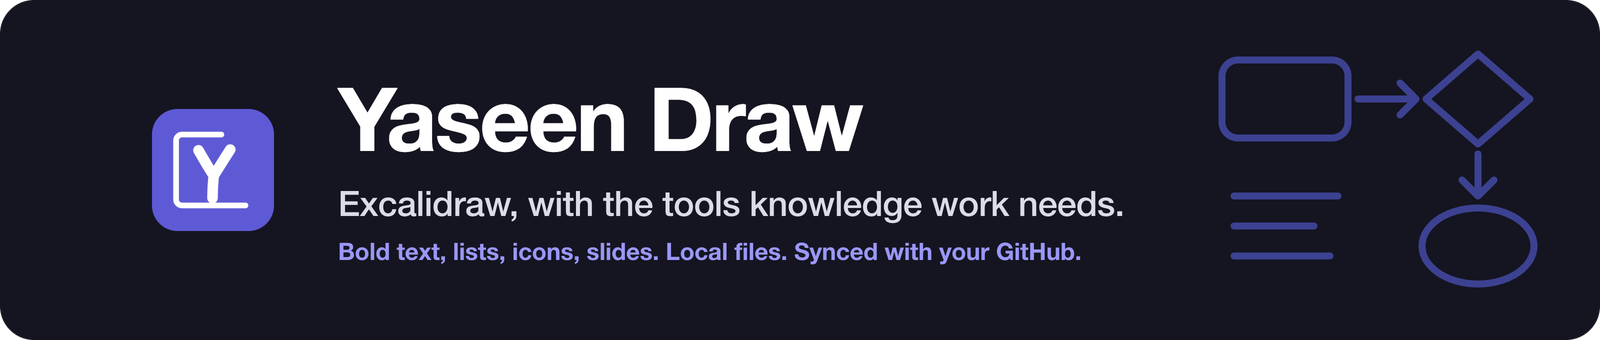
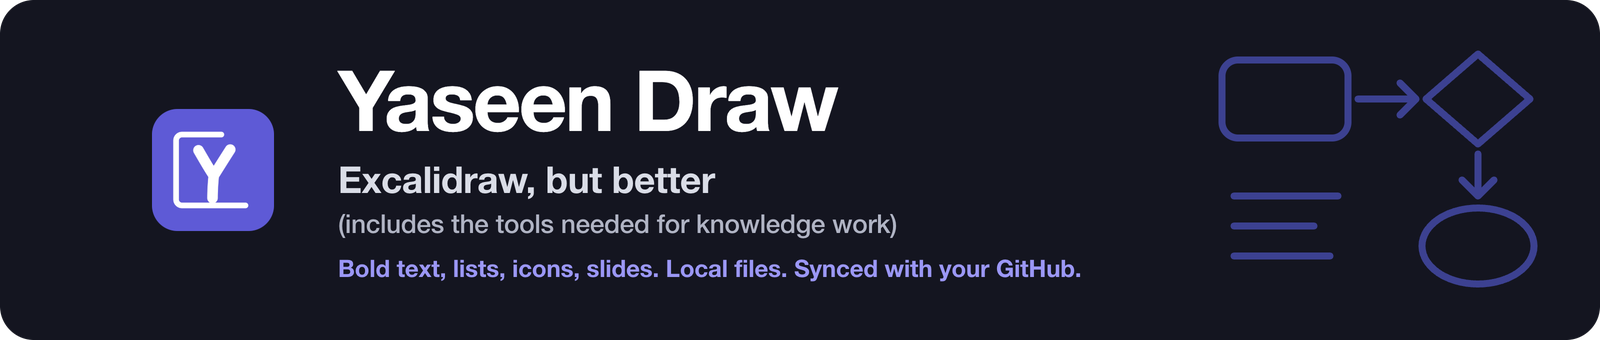
Change the tag line to "Excalidraw, but better (includes the tools needed for knowledge work)"
The banner and the link preview picture carry the new line, and so does the
banner's alt text in the README.

Changed region(s): [[0.1875, 0.5, 0.7188, 0.8235], [0.1875, 0.2059, 0.5625, 0.4706]]

diff --git a/tools/readmeMedia/banner.html b/tools/readmeMedia/banner.html
@@ -1,6 +1,6 @@
 <!doctype html>
 <!--
-  The README banner, 1600 × 340: the icon, the name, one line, and a small third line. Its own dark
+  The README banner, 1600 × 340: the icon, the name, the tag line (with its part in brackets below it), and a small last line. Its own dark
   background (rounded, transparent outside) reads on GitHub's light and dark pages alike. No picture
   of the app here — capture.mjs renders this page as it is. Query: icon = the app icon's URL.
 -->
@@ -14,9 +14,10 @@
   .card { position: relative; width: 1600px; height: 340px; border-radius: 34px; background: #131523; overflow: hidden; display: flex; align-items: center; }
   img { width: 126px; height: 126px; margin-left: 150px; flex: none; }
   .text { margin-left: 62px; }
-  h1 { margin: 0; font-size: 88px; line-height: 1; font-weight: 800; letter-spacing: -2.2px; color: #fff; }
-  .line { margin: 20px 0 0; font-size: 35px; font-weight: 500; letter-spacing: -.4px; color: #dfe1ea; }
-  .more { margin: 12px 0 0; font-size: 24px; font-weight: 700; letter-spacing: -.1px; color: #a5a1f7; }
+  h1 { margin: 0; font-size: 84px; line-height: 1; font-weight: 800; letter-spacing: -2.2px; color: #fff; }
+  .line { margin: 16px 0 0; font-size: 37px; font-weight: 600; letter-spacing: -.4px; color: #dfe1ea; }
+  .sub { margin: 6px 0 0; font-size: 26px; font-weight: 500; letter-spacing: -.2px; color: #b9bccb; }
+  .more { margin: 14px 0 0; font-size: 24px; font-weight: 700; letter-spacing: -.1px; color: #a5a1f7; }
   /* A few whiteboard shapes, as quiet as the wallpaper of a room. */
   svg { position: absolute; right: 60px; top: 46px; }
 </style>
@@ -26,7 +27,8 @@
   <img id="icon" alt="">
   <div class="text">
     <h1>Yaseen Draw</h1>
-    <p class="line">Excalidraw, with the tools knowledge work needs.</p>
+    <p class="line">Excalidraw, but better</p>
+    <p class="sub">(includes the tools needed for knowledge work)</p>
     <p class="more">Bold text, lists, icons, slides. Local files. Synced with your GitHub.</p>
   </div>
   <svg width="330" height="250" viewBox="0 0 330 250" fill="none" stroke="#454a9c" stroke-width="7" stroke-linecap="round" stroke-linejoin="round">

diff --git a/tools/readmeMedia/social.html b/tools/readmeMedia/social.html
@@ -15,8 +15,9 @@
   .text { margin-left: 84px; width: 470px; flex: none; }
   #icon { width: 104px; height: 104px; display: block; }
   h1 { margin: 34px 0 0; font-size: 66px; line-height: 1; font-weight: 800; letter-spacing: -1.6px; color: #fff; }
-  .line { margin: 22px 0 0; font-size: 30px; line-height: 1.32; font-weight: 500; letter-spacing: -.3px; color: #dfe1ea; }
-  .more { margin: 26px 0 0; font-size: 21px; line-height: 1.35; font-weight: 700; color: #a5a1f7; }
+  .line { margin: 22px 0 0; font-size: 34px; line-height: 1.2; font-weight: 600; letter-spacing: -.3px; color: #dfe1ea; }
+  .sub { margin: 8px 0 0; font-size: 23px; line-height: 1.3; font-weight: 500; color: #b9bccb; }
+  .more { margin: 24px 0 0; font-size: 21px; line-height: 1.35; font-weight: 700; color: #a5a1f7; }
   #shot { width: 610px; margin-left: 46px; border-radius: 18px; box-shadow: 0 0 0 1px rgba(255, 255, 255, .14), 0 24px 60px rgba(0, 0, 0, .5); display: block; }
 </style>
 </head>
@@ -24,7 +25,8 @@
 <div class="text">
   <img id="icon" alt="">
   <h1>Yaseen Draw</h1>
-  <p class="line">Excalidraw, with the tools knowledge work needs.</p>
+  <p class="line">Excalidraw, but better</p>
+  <p class="sub">(includes the tools needed<br>for knowledge work)</p>
   <p class="more">Bold text, lists, icons, slides. Local files.<br>Synced with your GitHub.</p>
 </div>
 <img id="shot" alt="">

diff --git a/README.md b/README.md
@@ -1,5 +1,5 @@
 <p align="center">
-  <img src="docs/assets/banner.png" alt="Yaseen Draw. Your whiteboards, as plain files in a folder on your own computer." width="100%">
+  <img src="docs/assets/banner.png" alt="Yaseen Draw. Excalidraw, but better (includes the tools needed for knowledge work)." width="100%">
 </p>
 
 <p align="center">
